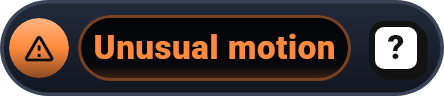
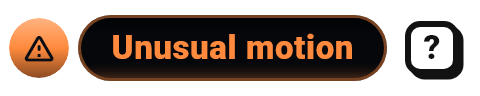
Real steps: the status pill re-rendered from the app as it ships in 2.11.0 (160 dp, no outline, no capsule)

diff --git a/index.html b/index.html
@@ -969,7 +969,7 @@
     .vd-scene { position: relative; height: 1.2em; font: 600 12px/1.2 var(--editorial); letter-spacing: .16em; text-transform: uppercase; color: var(--ed-mute); }
     .vd-scene span { position: absolute; left: 0; top: 0; opacity: 0; transform: translateY(6px); transition: opacity .35s ease, transform .35s ease; }
     .vd-scene span.on { opacity: 1; transform: none; }
-    .vd-pill { position: relative; margin: 14px 0 0; aspect-ratio: 444 / 96; width: 100%; }
+    .vd-pill { position: relative; margin: 14px 0 0; aspect-ratio: 480 / 96; width: 100%; }
     .vd-pill img { position: absolute; inset: 0; width: 100%; height: 100%; opacity: 0; transform: scale(.96); transition: opacity .28s ease, transform .4s cubic-bezier(.3,1.5,.5,1); }
     .vd-pill img.on { opacity: 1; transform: none; }
     .vd-count { display: flex; align-items: baseline; gap: 12px; margin-top: clamp(22px, 3.6vh, 34px); padding-top: clamp(16px, 2.6vh, 24px); border-top: 1px solid rgba(235,232,225,.16); }
